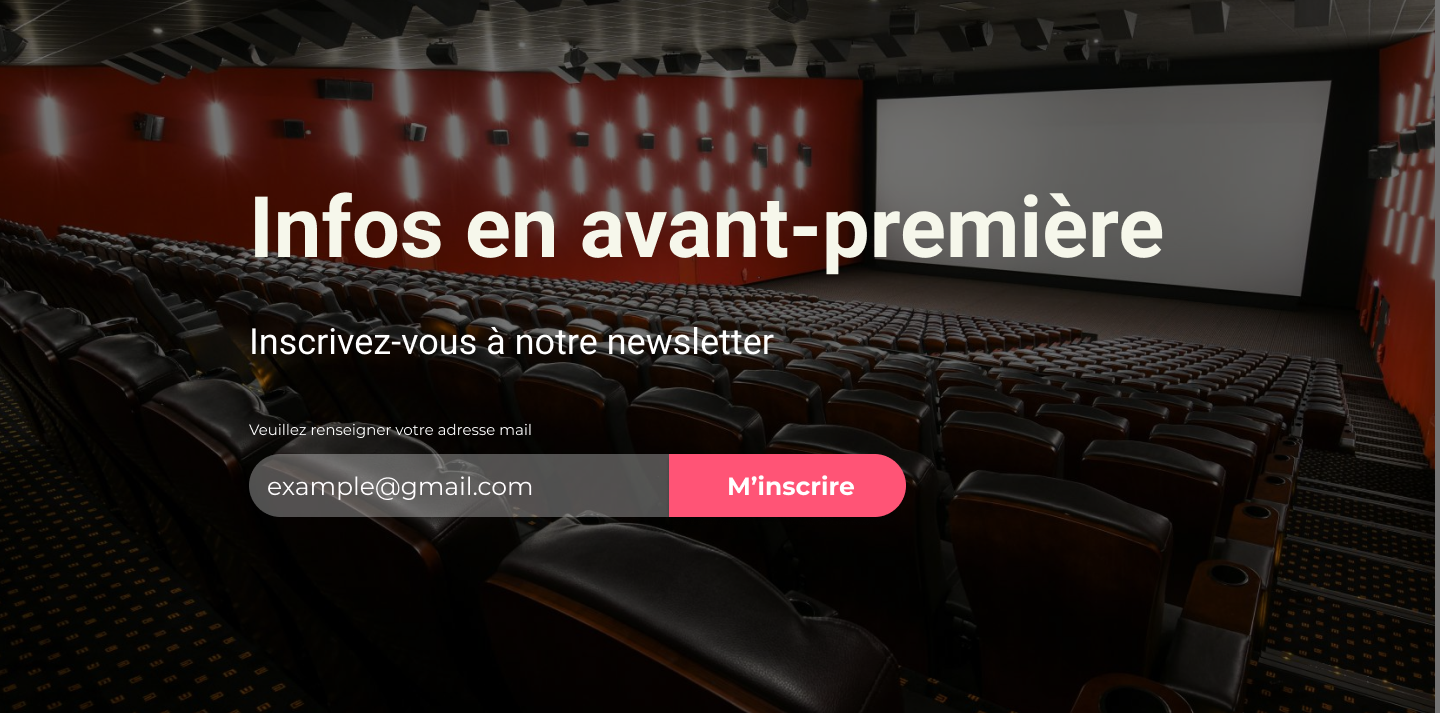
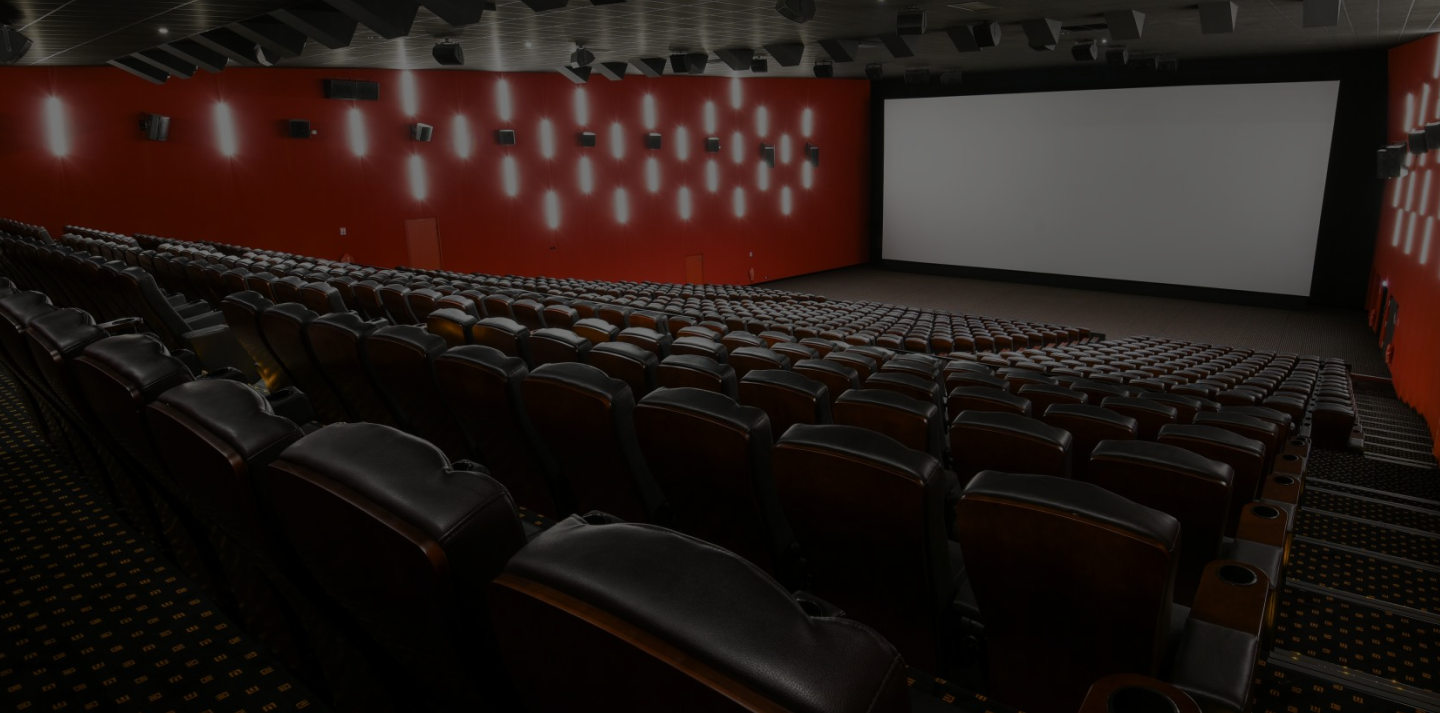
Update

diff --git a/_sass/components/home_css/newsletter.scss b/_sass/components/home_css/newsletter.scss
@@ -1,6 +1,12 @@
 .newsletter {
+  margin: 20% 0;
   justify-content: center;
-  background-image: url("../../");
+  background-image: url("../../../assets/img/img-newsletter.png");
+  background-repeat: no-repeat;
+
+  background-position-y: top;
+  background-attachment: fixed;
+  height: 60vh;
 }
 
 .img-cine {
@@ -12,7 +18,7 @@
 .box-text {
   /* Positionnement du texte sur l'image */
   font-family: "Montserrat", Roboto;
-  margin: 10%;
+  margin: 10% 0;
   line-height: 300%;
   top: 0px;
   margin-top: 10%;
@@ -25,7 +31,7 @@ h2.newsletter {
   font-family: "Roboto", Montserrat;
 }
 
-.inscri {
+.title3 {
   /* Sous titre "Inscrivez-vous à notre newsletter" */
   font-family: "Roboto";
   font-size: 36px;

diff --git a/_includes/home/newsletter.html b/_includes/home/newsletter.html
@@ -1,7 +1,7 @@
 <section class="newsletter grid">
   <div class="boxt-text">
     <h2 class="newsletter">Infos en avant-première</h2>
-    <div class="inscri">Inscrivez-vous à notre newsletter</div>
+    <h3 class="inscri">Inscrivez-vous à notre newsletter</h3>
     <form action="traitement php">
       <!-- Indication de où vont les info entrer-->
       <label for="email">Veuillez renseigner votre adresse mail :</label>
